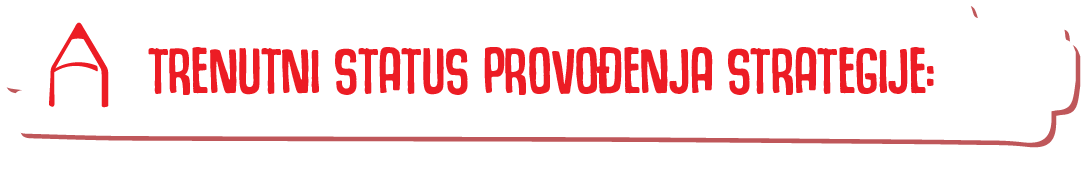
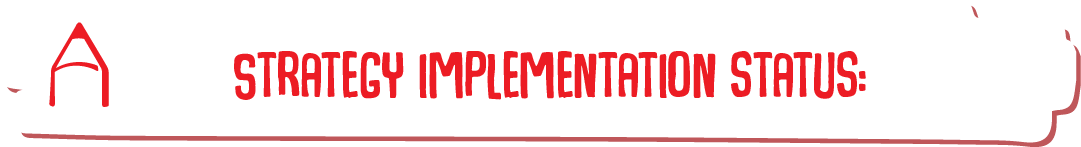
fixes

diff --git a/index_en.html b/index_en.html
@@ -15,7 +15,7 @@
 
     <title>Inclusion is not an illusion</title>
   </head>
-  <body>
+  <body lang="en">
 
     <nav>
         <div class="container">
@@ -51,7 +51,7 @@
                 Strategies
             </h3>
             <p class="lg-text">
-                for inclusive education of children with developmental disabilities with a seven-year implementation plan in the: 
+                for inclusive education of children with disabilities with a seven-year implementation plan in the:
             </p>
 
             <div class="row">
@@ -101,7 +101,7 @@
                 </button>
               </div>
               <div class="modal-body">
-                  Although financing of inclusive practices is one of the leading issues for many governments, inclusive education does not cost more than the special preschool and education system. The average cost of schooling students with disabilities in specialised institutions is seven to ten times higher than attending classes in regular primary schools.
+                  Although financing of inclusive practices is one of the leading issues for many governments, inclusive education does not cost more than the special education system. The average cost of schooling students with disabilities in specialised institutions is seven to ten times higher than attending classes in regular primary schools.
               </div>
             </div>
           </div>
@@ -167,7 +167,7 @@
                             </div>
                         </div>
                         <p>
-                            The strategies, on the one hand, structure existing good practices, but they also introduce innovative models of support through establishment of centres for development of inclusive practices, strong networking of all structures in the cantons working towards inclusion in preschool upbringing and education, and development of mobile expert team networks as one of the important functions of centres for development of inclusive practices.
+                            The strategies, on the one hand, structure existing good practices, but they also introduce innovative models of support through establishment of centres for development of inclusive practices, strong networking of all structures in the cantons working towards inclusion in education, and development of mobile expert team networks as one of the important functions of centres for development of inclusive practices.
                         </p>
                     </div>
                 </div>
@@ -196,8 +196,8 @@
             </button>
           </div>
           <div class="modal-body">
-              The strategies foresee state-of-the-art methods for supporting children and students with developmental difficulties, by transforming specialised institutions into centres for development of inclusive practices which will provide comprehensive support to preschool and education institutions, children with developmental disabilities and their families. Staff in the existing special institutions would be trained and reassigned to jobs in the new centres. <br><br>
-              The strategies are based on deinstitutionalisation and, as such, explicitly promote the process of transformation of specialised institutions to act in support of an inclusive preschool and education system. Centres for development of inclusive practices should provide comprehensive support rather than replace the regular preschool and education system.
+                The strategies foresee state-of-the-art methods for supporting children and students with disabilities, by transforming specialised institutions into centres for development of inclusive practices which will provide comprehensive support to education institutions, children with disabilities and their families. Professionals in the existing special institutions would be trained and reassigned to jobs in the new centres.<br><br>
+                The strategy is based on deinstitutionalisation and, as such, explicitly promotes the process of transformation of specialised institutions to act in support of an inclusive education system. Centres for development of inclusive practices should provide comprehensive support rather than replace the regular education system.
           </div>
         </div>
       </div>
@@ -263,13 +263,13 @@
                                 Their family members,
                             </li>
                             <li>
-                                Preschool and educational institutions,
+                                Educational institutions,
                             </li>
                             <li>
                                 Non-governmental organisations
                             </li>
                             <li>
-                                All other stakeholders in the domain of inclusive preschool upbringing and education.
+                                All other stakeholders in the domain of inclusive education.
                             </li>
                         </ul>
                         <img class="list-floating-image" src="assets/img/yay.png" alt="">
@@ -290,7 +290,7 @@
                                 <img src="assets/img/dash.png" alt="">
                             </div>
                             <p>
-                                <strong>„Implementation of this education strategy will certainly organise and adjust education in Canton Sarajevo to meet the needs of children with developmental disabilities and therefore also European education standards in this, most sensitive segment.“</strong> – Elvir Kazazović, minister of education, science and youth of Canton Sarajevo.
+                                <strong>„Implementation of this strategy will certainly organise and adjust education in Canton Sarajevo to meet the needs of children with disabilities and therefore also European education standards in this, most sensitive segment.“</strong> – Elvir Kazazović, minister of education, science and youth of Canton Sarajevo.
                             </p>
                         </div>
                         <div class="yellow-item no-gutters col-lg-5 col-12">
@@ -299,7 +299,7 @@
                                 <img src="assets/img/dash.png" alt="">
                             </div>
                             <p>
-                                <strong>„Approximately 10% of BiH population has some form of disability in terms of their physical, sensory, developmental, mental or intellectual functioning. Prejudice, stigma, lack of information and lack of availability prevent some parents from including their children in the preschool and education system. This justifies the need for adoption of this strategy and a systematic approach to development of inclusive practices to improve the system for early detection and support to children with developmental disabilities.”</strong> – Zlatan Muratović, minister of education, science, culture and sport of Tuzla Canton.
+                                <strong>„Approximately 10% of BiH population has some form of disability in terms of their physical, sensory, developmental, mental or intellectual functioning. Prejudice, stigma, lack of information and lack of availability prevent some parents from including their children in the education system. This justifies the need for adoption of this strategy and a systematic approach to development of inclusive practices to improve the system for early detection and support to children with l disabilities.”</strong> – Zlatan Muratović, minister of education, science, culture and sport of Tuzla Canton.
                             </p>
                         </div>
                         <div class="yellow-item no-gutters col-lg-4 col-12">
@@ -327,13 +327,13 @@
                           <div class="modal-dialog custom-modal" role="document">
                             <div class="modal-content">
                               <div class="modal-header">
-                                <h5 class="modal-title" id="fourthModalLabel">Every child has the right for education</h5>
+                                <h5 class="modal-title" id="fourthModalLabel">Every child has the right to education</h5>
                                 <button type="button" class="close" data-dismiss="modal" aria-label="Close">
                                   <span aria-hidden="true">&times;</span>
                                 </button>
                               </div>
                               <div class="modal-body">
-                                  Even now, 12 years after the start of systemic inclusive education in BiH, children with disabilities are still at a disadvantage in the BiH society. The right to regular education is guaranteed to every child by the International Convention on the Rights of the Child and the Convention on the Rights of Persons with Disabilities as well as many legislative acts in BiH, however, the situation in practice is quite different. Implementation of inclusion is inadequate; regular education remains unadjusted to persons with disabilities and there is a lack of adequate support services for children with disabilities and their families.
+                                  Even now, 12 years after the start of systemic inclusive education in BiH, children with disabilities are still at a disadvantage in the BiH society. The right to regular education is guaranteed to every child by the Convention on the Rights of the Child and the Convention on the Rights of Persons with Disabilities as well as many legislative acts in BiH, however, the situation in practice is quite different. Implementation of inclusion is inadequate; regular education remains unadjusted to persons with disabilities and there is a lack of adequate support services for children with disabilities and their families.
                               </div>
                             </div>
                           </div>
@@ -354,7 +354,7 @@
                                 </button>
                               </div>
                               <div class="modal-body">
-                                  Save the Children implements long-term activities in the field of inclusion of children with developmental disabilities and one part of this is the project Strengthening Social Inclusion - Equal and Quality Education in Support of Successful Development of Children in the North-West Balkans 2016-2018 (Component 2). To learn more about Save the Children’s activities in the field of inclusive education please search the hashtag <a target="_blank" href="https://twitter.com/hashtag/MiDjeca">#MiDjeca</a>.
+                                  Save the Children implements long-term activities in the field of inclusion of children with disabilities, including the project Enhancing Social Inclusion - Equity and Quality of Education to Support Thriving of Children in the North-West Balkans 2016-2018 To learn more about Save the Children's activities in the field of inclusive education please search the hashtag <a target="_blank" href="https://twitter.com/hashtag/MiDjeca">#MiDjeca</a>.
                               </div>
                             </div>
                           </div>
@@ -375,7 +375,7 @@
                                 </button>
                               </div>
                               <div class="modal-body">
-                                  Strategies for inclusive education of children with developmental disabilities and the associated seven-year Action Plans are the most important documents to date, in the twelve years of implementation of inclusion in the Tuzla Canton and Canton Sarajevo. The strategies were presented in December 2017 in Tuzla and Sarajevo and were produced with support and in active cooperation between the Ministry of Education and Science of Tuzla Canton and the Ministry of Education, Science and Youth of Canton Sarajevo, in consultation with several hundred individuals involved in inclusive practices, organisations and institutions.
+                                  Strategies for inclusive education of children with disabilities and the associated seven-year Action Plans are the most important documents to date, in the twelve years of implementation of inclusion in the Tuzla Canton and Canton Sarajevo. The strategies were presented in December 2017 in Tuzla and Sarajevo and were produced with support and in active cooperation between the Ministry of Education and Science of Tuzla Canton and the Ministry of Education, Science and Youth of Canton Sarajevo, in consultation with several hundred individuals involved in inclusive practices, organisations and institutions.
                               </div>
                             </div>
                           </div>
@@ -413,7 +413,7 @@
                         <div class="col-12 col-lg-4 final-list-item">
                                 <img src="assets/img/bullet-1.png" alt="">
                                 <p>
-                                    Development of a comprehensive support system for children/students with developmental disabilities in preschool upbringing and education. <a class="list-link" href="javascriot:void(0)" data-toggle="modal" data-target="#firstListModal">Find out more</a>
+                                    Development of a comprehensive support system for children/students with disabilities in education. <a class="list-link" href="javascriot:void(0)" data-toggle="modal" data-target="#firstListModal">Find out more</a>
                                 </p>
                         </div>
 
@@ -450,7 +450,7 @@
                         <div class="col-12 col-lg-4 final-list-item">
                                 <img src="assets/img/bullet-2.png" alt="">
                                 <p>
-                                    Improving the quality of work of teachers and improving expert capacities in preschool and educational institutions. <a class="list-link" href="javascriot:void(0)" data-toggle="modal" data-target="#secondListModal">Find out more</a>
+                                    Improving the quality of work of teachers and improving expert capacities in educational institutions. <a class="list-link" href="javascriot:void(0)" data-toggle="modal" data-target="#secondListModal">Find out more</a>
                                 </p>
                         </div>
 
@@ -467,13 +467,13 @@
                               <div class="modal-body">
                                   <ul>
                                       <li>
-                                        Strengthen professional capacities in preschool and educational institutions
+                                        Strengthen professional capacities in educational institutions
                                       </li>
                                       <li>
                                           Develop a support network for inclusive education
                                       </li>
                                       <li>
-                                          Gradually transform specialised institutions to centres for development of inclusive practices
+                                          Gradually transform specialised institutions into centres for development of inclusive practices
                                       </li>
                                   </ul>
                               </div>
@@ -484,7 +484,7 @@
                         <div class="col-12 col-lg-4 final-list-item">
                                 <img src="assets/img/bullet-3.png" alt="">
                                 <p>
-                                    Development of support services for the families of children/students with developmental disabilities. <a class="list-link" href="javascriot:void(0)" data-toggle="modal" data-target="#thirdListModal">Find out more</a>
+                                    Development of support services for the families of children/students with disabilities. <a class="list-link" href="javascriot:void(0)" data-toggle="modal" data-target="#thirdListModal">Find out more</a>
                                 </p>
                         </div>
 
@@ -501,10 +501,10 @@
                               <div class="modal-body">
                                   <ul>
                                       <li>
-                                          Educate, inform and strengthen the families of children/students with developmental disabilities
+                                          Educate, inform and strengthen the families of children/students with disabilities
                                       </li>
                                       <li>
-                                          Sensitise the public about the importance of deinstitutionalisation and family life for children with developmental disabilities
+                                          Sensitise the public about the importance of deinstitutionalisation and family life for children with disabilities
                                       </li>
                                   </ul>
                               </div>
@@ -534,10 +534,10 @@
                               <div class="modal-body">
                                   <ul>
                                       <li>
-                                          Systematically raise public awareness of the importance of associations of persons with disabilities and associations working in favour of children with developmental disabilities
+                                          Systematically raise public awareness of the importance of associations of persons with disabilities and associations working in favour of children with disabilities
                                       </li>
                                       <li>
-                                          Organise and structure financial support to associations of persons with disabilities and associations working in favour of children with developmental disabilities
+                                          Organise and structure financial support to associations of persons with disabilities and associations working in favour of children with disabilities
                                       </li>
                                   </ul>
                               </div>
@@ -548,7 +548,7 @@
                         <div class="col-12 col-lg-8 final-list-item">
                                 <img src="assets/img/bullet-5.png" alt="">
                                 <p>
-                                    Reallocation of existing budgets and use of project financing to build and develop an inclusive education system for children/students with developmental disabilities. <a class="list-link" href="javascriot:void(0)" data-toggle="modal" data-target="#fifthListModal">Find out more</a>
+                                    Reallocation of existing budgets and use of project financing to build and develop an inclusive education system for children/students with disabilities. <a class="list-link" href="javascriot:void(0)" data-toggle="modal" data-target="#fifthListModal">Find out more</a>
                                 </p>
                         </div>
 

diff --git a/index.html b/index.html
@@ -16,7 +16,7 @@
 
     <title>Inkluzija nije iluzija</title>
     </head>
-  <body>
+  <body lang="bs">
 
     <nav>
         <div class="container">
@@ -267,7 +267,7 @@
                                 njihovim roditeljima,
                             </li>
                             <li>
-                                članovima njihovih porodice,
+                                članovima njihovih porodica,
                             </li>
                             <li>
                                 odgojno-obrazovnim ustanovama,
@@ -297,7 +297,7 @@
                                 <img src="assets/img/dash.png" alt="">
                             </div>
                             <p>
-                                <strong>„Primjenom ove strategije obrazovanje u Kantonu Sarajevo će definitivno biti uređeno i prilagođeno potrebama djece s poteškoćama u razvoju, a time i evropskim standardima organizacije obrazovanja u njegovom najosjetljivijem segmentu.“</strong> – Elvir Kazazović, ministar za obrazovanje, nauku i mlade u KS-u.
+                                <strong>„Primjenom ove strategije obrazovanje u Kantonu Sarajevo će definitivno biti uređeno i prilagođeno potrebama djece s poteškoćama u razvoju, a time i evropskim standardima organizacije obrazovanja u njegovom najosjetljivijem segmentu.“</strong> – Elvir Kazazović, ministar za obrazovanje, nauku i mlade u Kantonu Sarajevo.
                             </p>
                         </div>
                         <div class="yellow-item no-gutters col-lg-5 col-12">
@@ -340,7 +340,7 @@
                                 </button>
                               </div>
                               <div class="modal-body">
-                                  Čak i nakon 12 godina od začetka sistemskog inkluzivnog obrazovanja u BiH, djeca s poteškoćama u razvoju i dalje su u neravnopravnom položaju u društvu Bosne i Hercegovine. Pravo na redovno školovanje za svako dijete zagarantovano je Međunarodnom konvencijom o pravima djeteta i Međunarodnom konvencijom o pravima osoba s invaliditetom, kao i mnogim zakonskim regulativama u BiH, ali je u praksi stanje drukčije. Realizacija inkluzivnosti je neadekvatna i odlikuje se kontinuiranom neprilagođenošću redovnog obrazovanja osobama s poteškoćama, kao i nedostatnošću adekvatnih servisa za podršku djeci s poteškoćama i njihovim porodicama.
+                                  Čak i nakon 12 godina od začetka sistemskog inkluzivnog obrazovanja u BiH, djeca s poteškoćama u razvoju i dalje su u neravnopravnom položaju u društvu Bosne i Hercegovine. Pravo na redovno školovanje za svako dijete zagarantovano je Konvencijom o pravima djeteta i Konvencijom o pravima osoba s invaliditetom, kao i mnogim zakonskim regulativama u BiH, ali je u praksi stanje drukčije. Realizacija inkluzivnosti je neadekvatna i odlikuje se kontinuiranom neprilagođenošću redovnog obrazovanja osobama s poteškoćama, kao i nedostatnošću adekvatnih servisa za podršku djeci s poteškoćama i njihovim porodicama.
                               </div>
                             </div>
                           </div>

diff --git a/sarajevo_en.html b/sarajevo_en.html
@@ -5,7 +5,7 @@
     <meta charset="utf-8">
     <meta name="viewport" content="width=device-width, initial-scale=1, shrink-to-fit=no">
     <meta property="og:image" content="assets/img/preview.png"/>
-    
+
     <!-- Fonts -->
     <link href="https://fonts.googleapis.com/css?family=Roboto+Slab:300,400&amp;subset=latin-ext" rel="stylesheet">
 
@@ -16,7 +16,7 @@
 
     <title>Inclusion is not an illusion</title>
   </head>
-  <body>
+  <body lang="en">
     <nav>
         <div class="container">
             <div class="row">
@@ -71,7 +71,7 @@
                     <div class="col-12 col-md-7">
                         <ul>
                             <li>4 specialised institutions – 250 students </li>
-                            <li>1 school for secondary education and vocational training – 58 students*</li>
+                            <li>1 School for secondary vocational education and qualification. – 58 students*</li>
                             <p>*Data for the school year 2013/14</p>
                         </ul>
                     </div>
@@ -104,7 +104,7 @@
                 <p>Canton Sarajevo already has many good inclusion practices, with trained staff in primary schools, specialised institutions, University of Sarajevo, Pedagogical Institute of Canton Sarajevo and non-governmental organisations.  </p>
                 <ul>
                     <li>This strategy systematically structures services already in place as well as those under development</li>
-                    <li>Provides clear direction for transition from the medical approach to children with developmental disabilities to a human rights model</li>
+                    <li>Provides clear direction for transition from the medical approach to children with disabilities to a human rights model. The Strategy focuses on inclusion as the only option for education of students with disabilities in Canton Sarajevo</li>
                     <li>New forms of support are introduced through establishment of centres for development of inclusive practices</li>
                 </ul>
                 <p> The Strategy focuses on inclusion as the only option for preschool upbringing and education of students with developmental disabilities in Canton Sarajevo. The strategy defines a clear system for early detection and intervention and for the flow of information about support needs from preschool, via primary and through to secondary education institutions, in order to maintain the continuity of support throughout education.</p>
@@ -132,8 +132,8 @@
             <br><br>
             <div class="header-status">
                 <div class="row">
-                    <img src="assets/img/status-scribble.png" alt="">
-                    <h4 class="status-message">The Strategy has been adopted by the cantonal government</h4>
+                    <img src="assets/img/status-scribble-en.png" alt="">
+                    <h4 class="status-message">The strategy has been adopted by the Government of Canton Sarajevo</h4>
                 </div>
             </div>
             <br>

diff --git a/tuzla_en.html b/tuzla_en.html
@@ -16,7 +16,7 @@
 
     <title>Inclusion is not an illusion</title>
   </head>
-  <body>
+  <body lang="en">
     <nav>
         <div class="container">
             <div class="row">
@@ -48,13 +48,13 @@
                 <img class="header-img" src="assets/img/tk-bg.png" alt="">
                 <img class="heading-img" src="assets/img/tk-heading-en.png" alt="">
                 <div class="heading-paragraph">
-                    <span>The total investment required for implementation of the Action Plan for this Strategy in the period of seven years is only 3,395,000 BAM.</span>
+                    <span>The total investment required for implementation of the Action Plan for this Strategy over seven years is only 3,409,000 BAM.</span>
                 </div>
             </div>
             <div class="header-list">
                 <div class="row">
                     <div class="col-12 col-md-7">
-                        <span>485,000.00 BAM annually</span>
+                        <span>487,000.00 BAM annually</span>
                         <ul>
                             <li>0.14% of the annual cantonal budget</li>
                             <li>0.31% of the budget of the Ministry of Education, Science, Culture and Sport of Tuzla Canton</li>
@@ -100,7 +100,7 @@
             <div class="header-information">
                 <h3>It is a major investment at a minimal cost</h3>
                 <p>
-                    It completely rejects the approach that sees children/students with developmental disabilities as passive recipients of medical and/or other types of care (under the medical model).<br><br>
+                    It completely rejects the approach that sees children/students with disabilities as passive recipients of medical and/or other types of care (under the medical model)<br><br>
 
                     The emphasis is on the abilities of each child/student, who can, after the society removes all existing obstacles, achieve their full potential.
                 </p>
@@ -141,8 +141,8 @@
             <br><br>
             <div class="header-status">
                 <div class="row">
-                    <img src="assets/img/status-scribble.png" alt="">
-                    <h4 class="status-message">The Strategy has been adopted by the cantonal government</h4>
+                    <img src="assets/img/status-scribble-en.png" alt="">
+                    <h4 class="status-message">The strategy has been adopted by the Government of Tuzla Sarajevo</h4>
                 </div>
             </div>
             <br>

diff --git a/sarajevo.html b/sarajevo.html
@@ -5,7 +5,7 @@
     <meta charset="utf-8">
     <meta name="viewport" content="width=device-width, initial-scale=1, shrink-to-fit=no">
     <meta property="og:image" content="assets/img/preview.png"/>
-    
+
     <!-- Fonts -->
     <link href="https://fonts.googleapis.com/css?family=Roboto+Slab:300,400&amp;subset=latin-ext" rel="stylesheet">
 
@@ -16,7 +16,7 @@
 
     <title>Inkluzija nije iluzija</title>
   </head>
-  <body>
+  <body lang="bs">
     <nav>
         <div class="container">
             <div class="row">
@@ -71,7 +71,7 @@
                     <div class="col-12 col-md-7">
                         <ul>
                             <li>4 specijalizirane ustanove - 250 učenika</li>
-                            <li>1 škola za srednje stručno obrazovanje i radno osposobljavanje - 58 učenika*</li>
+                            <li>1 Škola za srednje stručno obrazovanje i radno osposobljavanje - 58 učenika*</li>
                             <p>*Podaci za 2013/14 školsku godinu</p>
                         </ul>
                     </div>
@@ -133,7 +133,7 @@
             <div class="header-status">
                 <div class="row">
                     <img src="assets/img/status-scribble.png" alt="">
-                    <h4 class="status-message">Strategija je usvojena na nivou vlade kantona</h4>
+                    <h4 class="status-message">Strategija je usvojena na nivou Vlade Kantona Sarajevo</h4>
                 </div>
             </div>
             <br>

diff --git a/tuzla.html b/tuzla.html
@@ -5,7 +5,7 @@
     <meta charset="utf-8">
     <meta name="viewport" content="width=device-width, initial-scale=1, shrink-to-fit=no">
     <meta property="og:image" content="assets/img/preview.png"/>
-    
+
     <!-- Fonts -->
     <link href="https://fonts.googleapis.com/css?family=Roboto+Slab:300,400&amp;subset=latin-ext" rel="stylesheet">
 
@@ -16,7 +16,7 @@
 
     <title>Inkluzija nije iluzija</title>
   </head>
-  <body>
+  <body lang="bs">
     <nav>
         <div class="container">
             <div class="row">
@@ -57,7 +57,7 @@
                         <span>Godišnje 487.000,00 KM</span>
                         <ul>
                             <li>0.14% kantonalnog budžeta godišnje</li>
-                            <li>0.31% budžeta Ministarstva obrazovanja, nauke, kulture i sporta Tuzlanskog kantona</li>
+                            <li>0.31% budžeta Ministarstva obrazovanja i nauke Tuzlanskog kantona</li>
                         </ul>
                     </div>
                     <div class="col-12 col-md-5">
@@ -146,7 +146,7 @@
             <div class="header-status">
                 <div class="row">
                     <img src="assets/img/status-scribble.png" alt="">
-                    <h4 class="status-message">Strategija je usvojena na nivou vlade kantona</h4>
+                    <h4 class="status-message">Strategija je usvojena na nivou Vlade Tuzlanskog kantona</h4>
                 </div>
             </div>
             <br>
